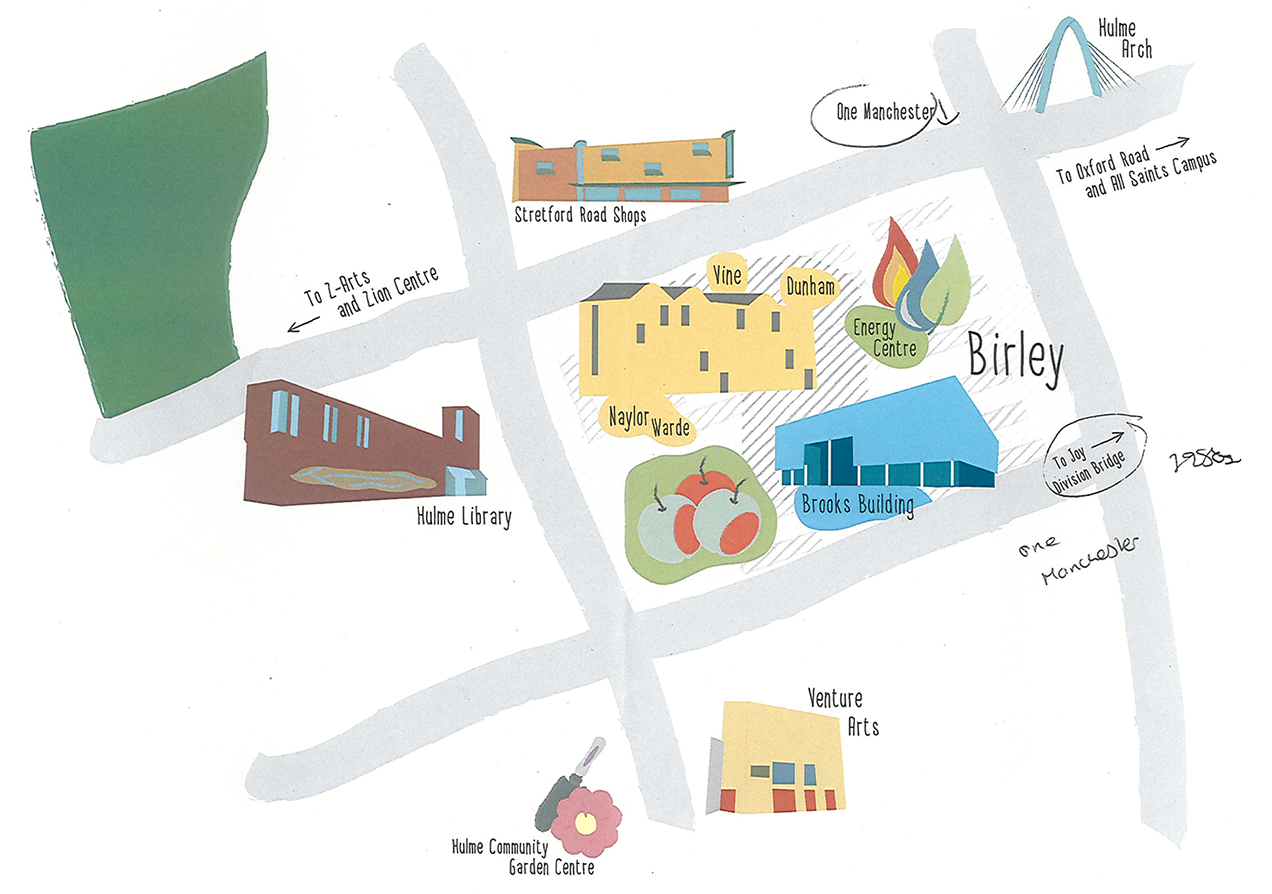
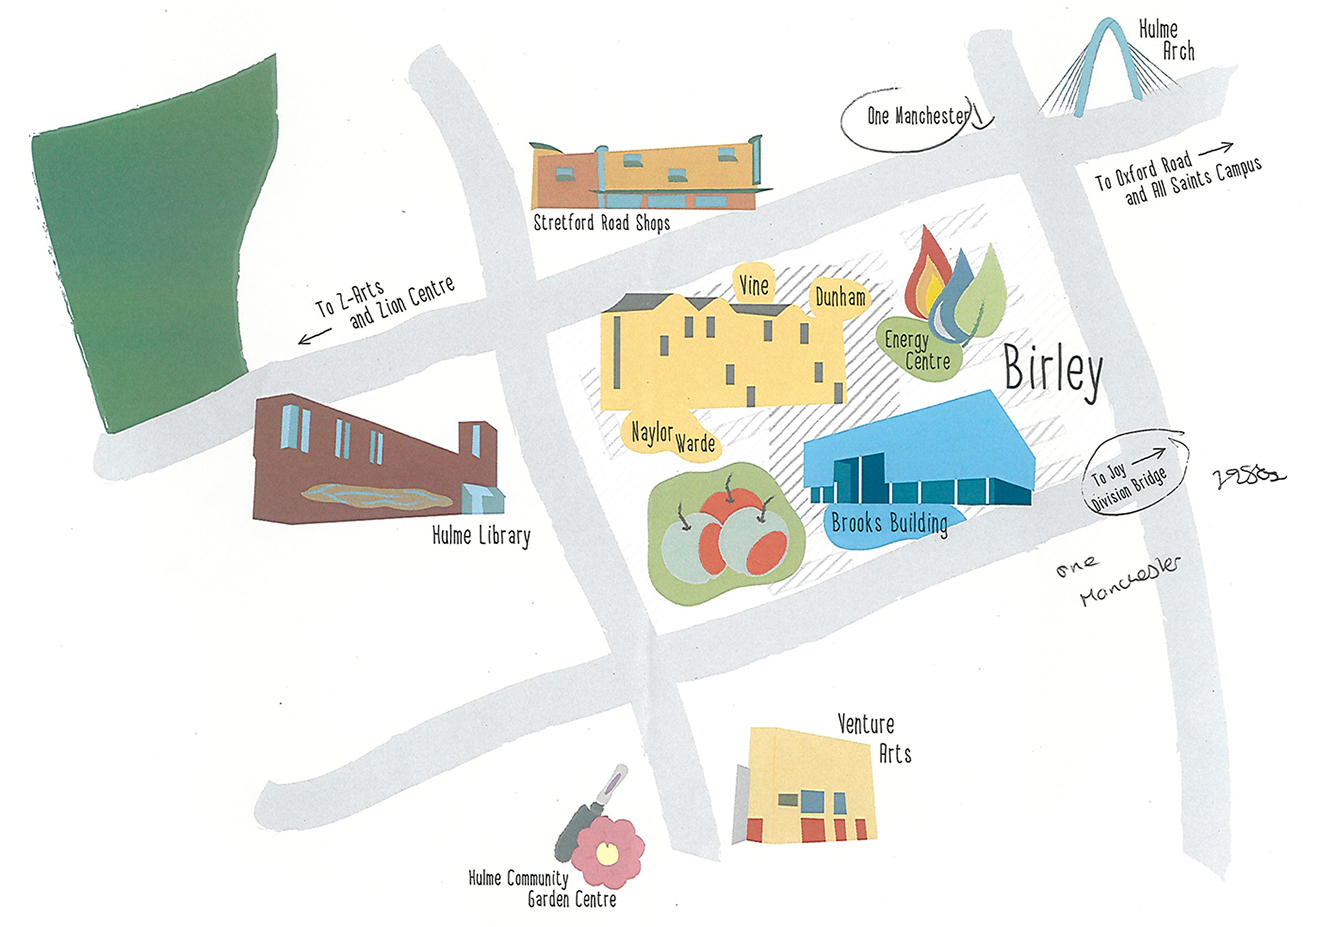
center map on window resize

diff --git a/assets/js/script.js b/assets/js/script.js
@@ -1,4 +1,6 @@
-// -- Cross-browser Map Cursors -- //
+scrollPosition();
+
+/* -- Cross-browser Map Cursors -- */
 
 document.getElementById('map');
 
@@ -14,12 +16,27 @@ map.addEventListener('mouseout', function() {
   map.className = 'map dragscroll';
 });
 
-// -- Touch Equivalent -- //
+  // -- Touch Equivalent -- //
 
-map.addEventListener('touchmove', function() {
-  map.className = 'map dragscroll grabbing';
-});
+  map.addEventListener('touchmove', function() {
+    map.className = 'map dragscroll grabbing';
+  });
 
-map.addEventListener('touchend', function() {
-  map.className = 'map dragscroll';
-});
+  map.addEventListener('touchend', function() {
+    map.className = 'map dragscroll';
+  });
+
+/* -- Set initial scroll position of map on window resize -- */
+
+window.addEventListener("resize", function() { scrollPosition() }, false);
+
+function scrollPosition() {
+  var windowWidth = window.innerWidth,
+  scrollWidth = map.scrollWidth,
+  clientWidth = map.clientWidth,
+  scrollMax = scrollWidth - clientWidth;
+
+  if (windowWidth < 1416) {
+    map.scrollLeft = (scrollMax / 2) + 17;
+  }
+}

diff --git a/assets/css/site/_maps.scss b/assets/css/site/_maps.scss
@@ -7,9 +7,8 @@
   animation-name: fadeIn;
   animation-duration: 1.5s;
   animation-fill-mode: forwards;
-  //box-shadow: 0px 0px 5px 1px rgba(0,0,0,0.4);
-  border-top: 1px solid lightgrey;
-  border-bottom: 1px solid lightgrey;
+  box-shadow: 0px 0px 5px 1px rgba(0,0,0,0.1);
+  //border: 1px solid lightgrey;
   height: 600px;
   transition: transform 700ms ease-in-out;
 
@@ -45,8 +44,8 @@
   transition: transform 700ms ease-in-out;
   background-image: url('../img/maps/map_today.png');
   background-repeat: no-repeat;
-  width: 1272px;
-  height: 894px;
+  width: 1336px;
+  height: 939px;
 }
 
 @keyframes fadeIn {
@@ -69,15 +68,19 @@
   }
 }
 
-@media screen and (max-width: 769px) {
+@media screen and (max-width: 960px) {
 
   .map {
     //height: 400px;
+
+    &.dragscroll.grabbing .map__inner {
+      transform: scale(.8);
+    }
   }
 
   .map__inner {
-    //height: 984px;
-    //transform: scale(.8);
+    //transform: translate(-300px, -100px);
+    //transform-origin: -150% -50% 0;
 
     &:hover {
       //transform: scale(1.2);

diff --git a/assets/css/style.css b/assets/css/style.css
@@ -192,8 +192,7 @@ body {
 	        animation-duration: 1.5s;
 	-webkit-animation-fill-mode: forwards;
 	        animation-fill-mode: forwards;
-	border-top: 1px solid lightgrey;
-	border-bottom: 1px solid lightgrey;
+	box-shadow: 0px 0px 5px 1px rgba(0, 0, 0, 0.1);
 	height: 600px;
 	transition: -webkit-transform 700ms ease-in-out;
 	transition: transform 700ms ease-in-out;
@@ -239,8 +238,8 @@ body {
 	transition: transform 700ms ease-in-out, -webkit-transform 700ms ease-in-out;
 	background-image: url("../img/maps/map_today.png");
 	background-repeat: no-repeat;
-	width: 1272px;
-	height: 894px;
+	width: 1336px;
+	height: 939px;
 }
 
 @-webkit-keyframes fadeIn {
@@ -273,6 +272,13 @@ body {
 .clickable:hover {
 	opacity: 0.8;
 	cursor: pointer;
+}
+
+@media screen and (max-width: 960px) {
+	.map.dragscroll.grabbing .map__inner {
+		-webkit-transform: scale(0.8);
+		        transform: scale(0.8);
+	}
 }
 
 /*# sourceMappingURL=source-map/style.css.map */

diff --git a/index.php b/index.php
@@ -28,7 +28,7 @@ $linkMy = "my-birley/";
 
 include('assets/includes/header.php'); ?>
 
-<section id="map" class="site-wrapper map dragscroll">
+<section id="map" class="map dragscroll">
 
   <div class="map__inner">
 
